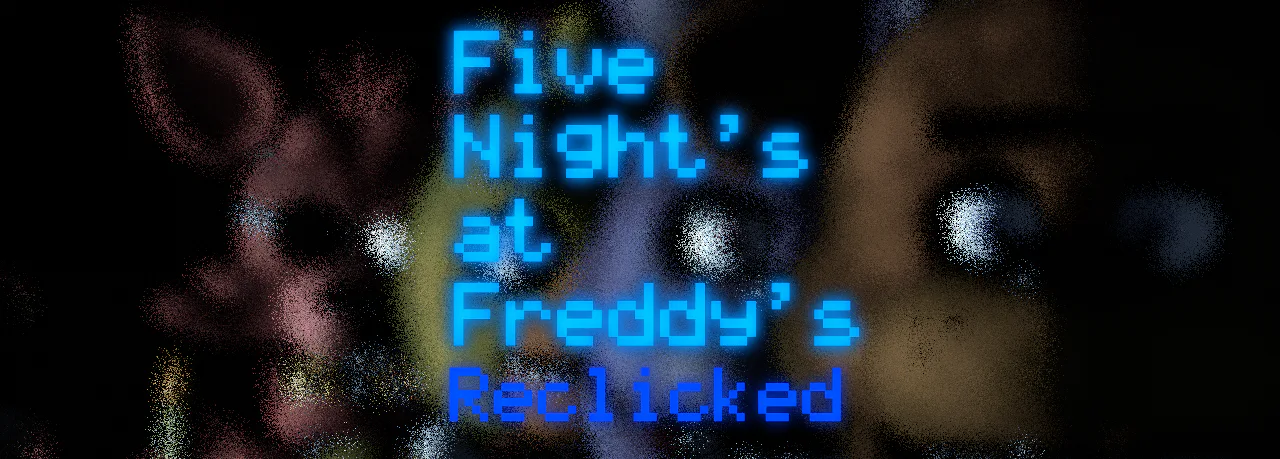
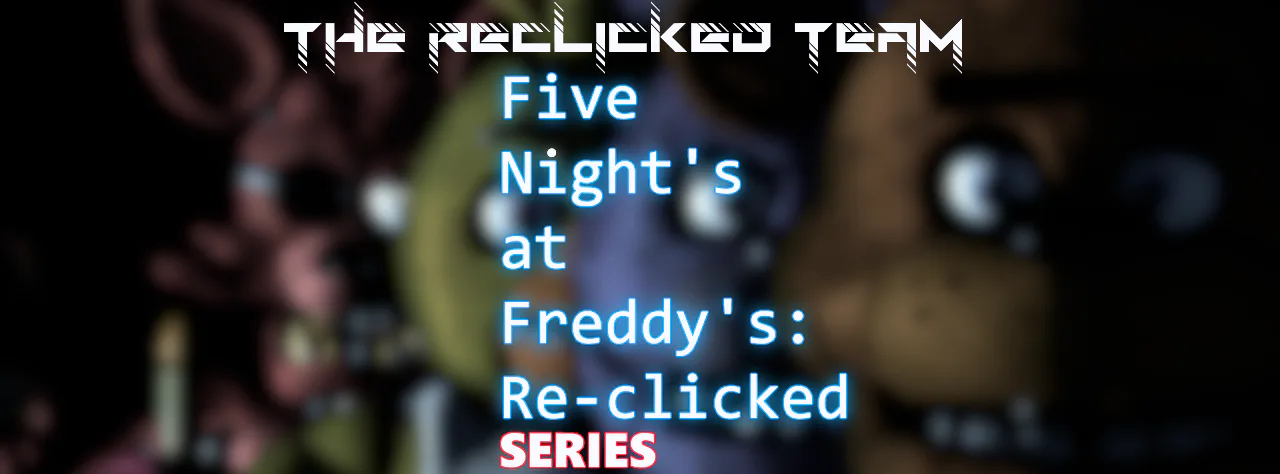
webpage update
New Title crad and Link URL

diff --git a/games.html b/games.html
@@ -18,7 +18,7 @@
   <br>
   <img src="images/reclicked.webp" width="640" height="229" alt="Header Logo"> 
   <br>
-  <a href="https://gamejolt.com/games/fnaf_reclicked/922790">Download FNaF Reclicked</a>
+  <a href="https://gamejolt.com/games/FNaF-Re-clicked-SERIES/936494">Download FNaF Reclicked</a>
 </div>
     </body>
     </html>
